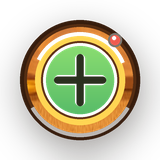
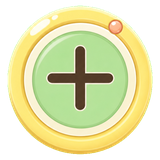
[FE] fix: 커뮤니티 테마 변경

diff --git a/frontend/src/features/community-canvas/components/CommunityComposerModal.tsx b/frontend/src/features/community-canvas/components/CommunityComposerModal.tsx
@@ -55,6 +55,7 @@ const TOOL_ACTIONS: Array<{
 ]
 
 const GALLERY_HIDDEN_TOOL_ACTIONS: ToolActionKey[] = []
+const COMPOSER_BOARD_SURFACE_CLASS = 'h-[540px] w-[720px] max-h-full max-w-full'
 
 function getContainedImageFrame({
   imageWidth,
@@ -105,7 +106,7 @@ export function CommunityComposerModal({ composer }: CommunityComposerModalProps
       role="dialog"
       aria-modal="true"
       aria-labelledby="community-composer-title"
-      className="fixed inset-0 z-[var(--z-overlay)] grid place-items-center bg-[#1f160d]/58 p-4 backdrop-blur-[2px]"
+      className="fixed inset-0 z-[var(--z-overlay)] grid place-items-center bg-[#19172a]/50 p-4 backdrop-blur-[2px]"
     >
       <section
         className="relative aspect-[1600/980] overflow-hidden bg-contain bg-center bg-no-repeat"
@@ -126,20 +127,20 @@ export function CommunityComposerModal({ composer }: CommunityComposerModalProps
             type="button"
             aria-label="작성 닫기"
             onClick={composer.closeComposer}
-            className="grid size-11 place-items-center rounded-full border border-[#e0b46f] bg-[#fff6df] text-fg-secondary shadow-[0_7px_16px_rgb(84_45_18_/_18%)] transition hover:-translate-y-0.5 hover:bg-white"
+            className="grid size-11 place-items-center rounded-full border border-[#ffd66b] bg-[#fff8e1] text-fg-secondary shadow-[0_7px_16px_rgb(71_68_112_/_16%)] transition hover:-translate-y-0.5 hover:bg-white"
           >
             <X className="size-5" />
           </button>
         </header>
 
-        <div className="absolute left-[4.75%] top-[21%] h-[7.15%] w-[16.875%]">
+        <div className="absolute left-[4.75%] top-[21.55%] h-[4.65%] w-[16.875%]">
           <SourceTabs
             sourceType={sourceType}
             onSelectSourceType={composer.selectSourceType}
           />
         </div>
 
-        <div className="absolute bottom-[8.6%] left-[4.75%] right-[4.75%] top-[31.3%] grid min-h-0 gap-[1.5%] overflow-hidden xl:grid-cols-[minmax(0,750fr)_320fr_330fr]">
+        <div className="absolute bottom-[8.6%] left-[4.75%] right-[4.75%] top-[29%] grid min-h-0 gap-[1.5%] overflow-hidden xl:grid-cols-[minmax(0,750fr)_320fr_330fr]">
             {sourceType === 'DIRECT' ? (
               <>
                 <div className="flex h-full min-w-0 items-center justify-center overflow-visible">
@@ -187,10 +188,13 @@ export function CommunityComposerModal({ composer }: CommunityComposerModalProps
               <>
                 <div className="flex h-full min-w-0 items-center justify-center overflow-visible">
                   {!selectedGalleryCanvasImageUrl && composer.handoffDraft ? (
-                    <CommunityHandoffSourcePanel draft={composer.handoffDraft} />
+                    <CommunityHandoffSourcePanel
+                      draft={composer.handoffDraft}
+                      className={COMPOSER_BOARD_SURFACE_CLASS}
+                    />
                   ) : !selectedGalleryCanvasImageUrl ? (
                     <CommunityGalleryPicker
-                      className="h-full w-full max-h-full"
+                      className={COMPOSER_BOARD_SURFACE_CLASS}
                       items={composer.galleryItems}
                       status={composer.galleryStatus}
                       error={composer.galleryError}
@@ -223,35 +227,28 @@ export function CommunityComposerModal({ composer }: CommunityComposerModalProps
                   className={cn(
                     'grid min-h-0 self-center auto-rows-max content-start gap-3 overflow-y-auto rounded-[0.55rem] bg-surface-default p-3 shadow-[0_10px_20px_rgb(78_44_20_/_12%)] [height:min(100%,33.75rem)]',
                     isPosting && 'pointer-events-none opacity-60',
-                    !selectedGalleryCanvasImageUrl && 'h-full place-items-center',
                   )}
                 >
-                  {selectedGalleryCanvasImageUrl ? (
-                    <>
-                      <DrawingToolStrip
-                        hiddenToolKeys={GALLERY_HIDDEN_TOOL_ACTIONS}
-                        selectedToolKey={drawingBoard.selectedToolKey}
-                        canUndoDrawing={drawingBoard.canUndoDrawing}
-                        canRedoDrawing={drawingBoard.canRedoDrawing}
-                        onSelectTool={drawingBoard.setSelectedToolKey}
-                        onUndoDrawing={drawingBoard.undoDrawing}
-                        onRedoDrawing={drawingBoard.redoDrawing}
-                        onClearDrawing={drawingBoard.clearDrawing}
-                      />
+                  <DrawingToolStrip
+                    hiddenToolKeys={GALLERY_HIDDEN_TOOL_ACTIONS}
+                    selectedToolKey={drawingBoard.selectedToolKey}
+                    canUndoDrawing={drawingBoard.canUndoDrawing}
+                    canRedoDrawing={drawingBoard.canRedoDrawing}
+                    onSelectTool={drawingBoard.setSelectedToolKey}
+                    onUndoDrawing={drawingBoard.undoDrawing}
+                    onRedoDrawing={drawingBoard.redoDrawing}
+                    onClearDrawing={drawingBoard.clearDrawing}
+                  />
 
-                      <DrawingBrushPanel
-                        colors={DRAWING_COLORS}
-                        selectedColor={drawingBoard.selectedColor}
-                        selectedOpacity={drawingBoard.selectedOpacity}
-                        strokeWidth={drawingBoard.strokeWidth}
-                        onSelectColor={drawingBoard.setSelectedColor}
-                        onOpacityChange={drawingBoard.setSelectedOpacity}
-                        onStrokeWidthChange={drawingBoard.setStrokeWidth}
-                      />
-                    </>
-                  ) : (
-                    <ImagePlus className="size-9 text-fg-secondary" />
-                  )}
+                  <DrawingBrushPanel
+                    colors={DRAWING_COLORS}
+                    selectedColor={drawingBoard.selectedColor}
+                    selectedOpacity={drawingBoard.selectedOpacity}
+                    strokeWidth={drawingBoard.strokeWidth}
+                    onSelectColor={drawingBoard.setSelectedColor}
+                    onOpacityChange={drawingBoard.setSelectedOpacity}
+                    onStrokeWidthChange={drawingBoard.setStrokeWidth}
+                  />
                 </div>
               </>
             )}
@@ -276,7 +273,7 @@ export function CommunityComposerModal({ composer }: CommunityComposerModalProps
               type="button"
               disabled={isPosting}
               onClick={handlePreparePlacement}
-              className="body-b mt-auto inline-flex h-12 w-full items-center justify-center gap-2 rounded-[0.45rem] bg-primary-1 text-fg-inverse transition hover:-translate-y-0.5 disabled:cursor-not-allowed disabled:opacity-60"
+              className="body-b mt-auto inline-flex h-12 w-full items-center justify-center gap-2 rounded-[0.45rem] bg-primary-1 text-fg-primary transition hover:-translate-y-0.5 disabled:cursor-not-allowed disabled:opacity-60"
             >
               {sourceType === 'DIRECT' ? <Send className="size-5" /> : <ImagePlus className="size-5" />}
               {isPosting ? '메모지 준비 중' : '메모지 들기'}
@@ -290,8 +287,10 @@ export function CommunityComposerModal({ composer }: CommunityComposerModalProps
 
 function CommunityHandoffSourcePanel({
   draft,
+  className,
 }: {
   draft: NonNullable<ReturnType<typeof useCommunityComposer>['handoffDraft']>
+  className?: string
 }) {
   const previewUrl = draft.thumbnailUrl || draft.imageUrl
   const sourceLabel =
@@ -302,7 +301,7 @@ function CommunityHandoffSourcePanel({
         : '폰 갤러리'
 
   return (
-    <section className="rounded-[0.5rem] border border-border-default bg-surface-subtle p-4">
+    <section className={cn('rounded-[0.5rem] border border-border-default bg-surface-subtle p-4', className)}>
       <p className="caption-b text-primary-2">{sourceLabel}</p>
       <h3 className="body-b mt-1 truncate text-fg-primary">{draft.title}</h3>
       <div className="relative mt-4 aspect-[4/3] overflow-hidden rounded-[0.45rem] border border-border-default bg-surface-default">
@@ -385,7 +384,7 @@ function SourceTabs({
   onSelectSourceType: (sourceType: MemoSourceType) => void
 }) {
   return (
-    <div className="grid h-full w-full grid-cols-2 rounded-[0.45rem] border border-border-default bg-surface-subtle p-1">
+    <div className="grid h-full w-full grid-cols-2 rounded-[0.45rem] border border-border-default bg-surface-subtle px-1 py-0.5">
       {SOURCE_TABS.map((tab) => (
         <button
           key={tab.key}

diff --git a/frontend/src/features/community-canvas/components/CommunityWall.tsx b/frontend/src/features/community-canvas/components/CommunityWall.tsx
@@ -36,14 +36,13 @@ const WALL_HEIGHT = 941
 const MEMO_WIDTH = 160
 const MEMO_HEIGHT = 160
 const MEMO_VISUAL_SAFE_PADDING = 24
-const WALL_BACKGROUND_IMAGE = '/images/community-canvas/wall-bg.png'
-const WALL_FOREGROUND_IMAGE = '/images/community-canvas/wall-fg.png'
+const WALL_BACKGROUND_IMAGE = '/images/community-canvas/wall-bg-studio.png'
 const BOUNDARY_EPSILON = 0.5
 const ATTACHABLE_SURFACE_BOUNDS = {
-  left: -630,
-  top: -365,
+  left: -590,
+  top: -550,
   right: 630,
-  bottom: 292,
+  bottom: 550,
 }
 const MEMO_PLACEMENT_ANIMATION_DURATION_MS = 720
 
@@ -798,15 +797,6 @@ export function CommunityWall({
           </>
         )}
 
-        <Image
-          src={WALL_FOREGROUND_IMAGE}
-          alt=""
-          fill
-          sizes={`${WALL_WIDTH}px`}
-          aria-hidden="true"
-          className="pointer-events-none z-[9000] select-none object-cover"
-        />
-
         {memoStatus === 'loading' && !isWallManipulating && (
           <div className="absolute inset-0 z-[11000] grid place-items-center bg-white/45 backdrop-blur-[1px]">
             <p className="body-b rounded-[0.45rem] bg-white px-4 py-3 text-fg-primary shadow-sm">
@@ -834,7 +824,7 @@ export function CommunityWall({
                 event.stopPropagation()
                 onRetry()
               }}
-              className="body-b mt-4 h-10 rounded-[0.45rem] bg-primary-1 px-4 text-fg-inverse"
+              className="body-b mt-4 h-10 rounded-[0.45rem] bg-primary-1 px-4 text-fg-primary"
             >
               다시 불러오기
             </button>
@@ -861,7 +851,7 @@ function PendingCancelButton({
         onCancelPendingMemo()
       }}
       disabled={isAttachingMemo}
-      className="absolute right-5 top-5 z-[10001] grid size-10 place-items-center rounded-full bg-white text-fg-secondary shadow-[0_10px_22px_rgb(61_43_22_/_16%)] disabled:cursor-not-allowed disabled:opacity-60"
+      className="absolute right-5 top-5 z-[10001] grid size-10 place-items-center rounded-full bg-white text-fg-secondary shadow-[0_10px_22px_rgb(71_68_112_/_16%)] disabled:cursor-not-allowed disabled:opacity-60"
     >
       <X className="size-5" />
     </button>
@@ -1003,7 +993,7 @@ function MemoSurface({
         onMouseDown={onBeginRotate}
         onClick={(event) => event.stopPropagation()}
         disabled={disabled}
-        className="pointer-events-auto absolute left-1/2 top-0 grid size-8 -translate-x-1/2 -translate-y-1/2 place-items-center rounded-full border border-border-default bg-white text-fg-secondary shadow-[0_8px_16px_rgb(61_43_22_/_18%)] disabled:cursor-not-allowed disabled:opacity-60"
+        className="pointer-events-auto absolute left-1/2 top-0 grid size-8 -translate-x-1/2 -translate-y-1/2 place-items-center rounded-full border border-border-default bg-white text-fg-secondary shadow-[0_8px_16px_rgb(71_68_112_/_18%)] disabled:cursor-not-allowed disabled:opacity-60"
       >
         <RotateCw className="size-4" />
       </button>

diff --git a/frontend/src/features/community-canvas/CommunityCanvasPage.tsx b/frontend/src/features/community-canvas/CommunityCanvasPage.tsx
@@ -19,6 +19,18 @@ const memoButtonStyle = {
   backgroundImage: 'url("/images/community-canvas/ui/button-add-token.png")',
 } satisfies CSSProperties
 
+type CommunityCanvasThemeStyle = CSSProperties & Record<`--${string}`, string>
+
+const communityCanvasThemeStyle: CommunityCanvasThemeStyle = {
+  '--color-primary-1': '#FFB72C',
+  '--color-primary-2': '#E88900',
+  '--color-primary-5': '#FFF0B8',
+  '--color-fg-primary': '#2D2638',
+  '--color-fg-secondary': '#6F6681',
+  '--color-fg-disabled': '#B4ACBF',
+  '--color-border-default': '#E7DAB8',
+}
+
 export function CommunityCanvasPage() {
   const [isReportOpen, setReportOpen] = useState(false)
   const communityCanvas = useCommunityCanvas()
@@ -59,7 +71,10 @@ export function CommunityCanvasPage() {
   }
 
   return (
-    <main className="relative min-h-screen overflow-hidden bg-surface-default text-fg-primary">
+    <main
+      className="relative min-h-screen overflow-hidden bg-surface-default text-fg-primary"
+      style={communityCanvasThemeStyle}
+    >
       <WorldHomeLink />
       <header className="pointer-events-none fixed inset-x-4 top-4 z-[12000] flex justify-end">
         <div className="pointer-events-auto flex items-center gap-2">
@@ -68,14 +83,14 @@ export function CommunityCanvasPage() {
             aria-label="새로고침"
             onClick={() => void communityCanvas.loadCommunityMemos()}
             style={refreshButtonStyle}
-            className="size-20 rounded-full bg-contain bg-center bg-no-repeat transition duration-150 hover:-translate-y-0.5 hover:brightness-110 focus-visible:outline-none focus-visible:ring-4 focus-visible:ring-primary-5 active:translate-y-0 active:brightness-95"
+            className="size-20 rounded-full bg-contain bg-center bg-no-repeat drop-shadow-[0_8px_10px_rgb(61_77_70_/_22%)] transition duration-150 hover:-translate-y-0.5 hover:brightness-110 focus-visible:outline-none focus-visible:ring-4 focus-visible:ring-primary-5 active:translate-y-0 active:brightness-95"
           />
           <button
             type="button"
             aria-label="새 메모 붙이기"
             onClick={composer.openComposer}
             style={memoButtonStyle}
-            className="size-20 rounded-full bg-contain bg-center bg-no-repeat transition duration-150 hover:-translate-y-0.5 hover:brightness-110 focus-visible:outline-none focus-visible:ring-4 focus-visible:ring-primary-5 active:translate-y-0 active:brightness-95"
+            className="size-20 rounded-full bg-contain bg-center bg-no-repeat drop-shadow-[0_8px_10px_rgb(61_77_70_/_22%)] transition duration-150 hover:-translate-y-0.5 hover:brightness-110 focus-visible:outline-none focus-visible:ring-4 focus-visible:ring-primary-5 active:translate-y-0 active:brightness-95"
           />
         </div>
       </header>

diff --git a/frontend/src/features/community-canvas/components/CommunityMemoDetailModal.tsx b/frontend/src/features/community-canvas/components/CommunityMemoDetailModal.tsx
@@ -44,7 +44,7 @@ export function CommunityMemoDetailModal({
       role="dialog"
       aria-modal="true"
       aria-labelledby="community-memo-detail-title"
-      className="fixed inset-0 z-[var(--z-overlay)] grid place-items-center bg-[#1f160d]/58 p-4 backdrop-blur-[2px]"
+      className="fixed inset-0 z-[var(--z-overlay)] grid place-items-center bg-[#19172a]/50 p-4 backdrop-blur-[2px]"
     >
       <section
         className="relative aspect-[1500/1040] w-full max-w-6xl bg-contain bg-center bg-no-repeat"
@@ -57,12 +57,12 @@ export function CommunityMemoDetailModal({
           type="button"
           aria-label="메모 상세 닫기"
           onClick={onClose}
-          className="absolute right-[5.3%] top-[5.3%] z-10 grid size-11 place-items-center rounded-full border border-[#e0b46f] bg-[#fff6df] text-fg-secondary shadow-[0_7px_16px_rgb(84_45_18_/_18%)] transition hover:-translate-y-0.5 hover:bg-white"
+          className="absolute right-[5.3%] top-[5.3%] z-10 grid size-11 place-items-center rounded-full border border-[#ffd66b] bg-[#fff8e1] text-fg-secondary shadow-[0_7px_16px_rgb(71_68_112_/_16%)] transition hover:-translate-y-0.5 hover:bg-white"
         >
           <X className="size-5" />
         </button>
 
-        <div className="absolute left-[6.4%] right-[6.4%] top-[9.2%] bottom-[25.4%] overflow-hidden rounded-[1rem] border border-[#f0dcae]/80 bg-white shadow-[inset_0_1px_0_rgb(255_255_255_/_88%),0_8px_22px_rgb(80_45_18_/_10%)]">
+        <div className="absolute left-[6.4%] right-[6.4%] top-[9.2%] bottom-[25.4%] overflow-hidden rounded-[1rem] border border-[#ffdf82]/80 bg-white shadow-[inset_0_1px_0_rgb(255_255_255_/_88%),0_8px_22px_rgb(71_68_112_/_10%)]">
           {detailStatus === 'loading' && (
             <div className="absolute inset-0 grid place-items-center">
               <p className="body-b text-fg-secondary">메모를 여는 중</p>

diff --git a/frontend/src/features/community-canvas/components/CommunityReportModal.tsx b/frontend/src/features/community-canvas/components/CommunityReportModal.tsx
@@ -39,7 +39,7 @@ export function CommunityReportModal({
       role="dialog"
       aria-modal="true"
       aria-labelledby="community-report-title"
-      className="fixed inset-0 z-[calc(var(--z-overlay)+10)] grid place-items-center bg-[#1f160d]/58 p-4 backdrop-blur-[2px]"
+      className="fixed inset-0 z-[calc(var(--z-overlay)+10)] grid place-items-center bg-[#19172a]/50 p-4 backdrop-blur-[2px]"
     >
       <section
         className="w-full max-w-md bg-contain bg-center bg-no-repeat px-10 pb-10 pt-9"
@@ -56,7 +56,7 @@ export function CommunityReportModal({
             type="button"
             aria-label="신고 닫기"
             onClick={onClose}
-            className="grid size-9 place-items-center rounded-full border border-[#e0b46f] bg-[#fff6df] text-fg-secondary shadow-[0_6px_14px_rgb(84_45_18_/_16%)]"
+            className="grid size-9 place-items-center rounded-full border border-[#ffd66b] bg-[#fff8e1] text-fg-secondary shadow-[0_6px_14px_rgb(71_68_112_/_16%)]"
           >
             <X className="size-5" />
           </button>
@@ -89,7 +89,7 @@ export function CommunityReportModal({
           value={reasonDetail}
           onChange={(event) => setReasonDetail(event.target.value)}
           maxLength={300}
-          className="body-r mt-2 min-h-24 w-full resize-none rounded-[0.45rem] border border-[#d9994a]/70 bg-[#fff8e8]/88 p-3 text-fg-primary outline-none focus:border-primary-1"
+          className="body-r mt-2 min-h-24 w-full resize-none rounded-[0.45rem] border border-[#ffcf58]/70 bg-[#fff8e8]/88 p-3 text-fg-primary outline-none focus:border-primary-1"
         />
 
         <button

diff --git a/frontend/src/features/community-canvas/components/CommunityGalleryPicker.tsx b/frontend/src/features/community-canvas/components/CommunityGalleryPicker.tsx
@@ -30,7 +30,7 @@ export function CommunityGalleryPicker({
         <button
           type="button"
           onClick={onLoad}
-          className="body-b inline-flex h-11 items-center gap-2 rounded-[0.45rem] bg-primary-1 px-5 text-fg-inverse transition hover:-translate-y-0.5"
+          className="body-b inline-flex h-11 items-center gap-2 rounded-[0.45rem] bg-primary-1 px-5 text-fg-primary transition hover:-translate-y-0.5"
         >
           <ImageIcon className="size-4" />
           갤러리 불러오기
@@ -55,7 +55,7 @@ export function CommunityGalleryPicker({
           <button
             type="button"
             onClick={onLoad}
-            className="body-b mt-4 inline-flex h-11 items-center gap-2 rounded-[0.45rem] bg-primary-1 px-5 text-fg-inverse"
+            className="body-b mt-4 inline-flex h-11 items-center gap-2 rounded-[0.45rem] bg-primary-1 px-5 text-fg-primary"
           >
             <RefreshCw className="size-4" />
             다시 시도
@@ -108,7 +108,7 @@ export function CommunityGalleryPicker({
                   </span>
                 )}
                 {isSelected && (
-                  <span className="absolute right-2 top-2 grid size-7 place-items-center rounded-full bg-primary-1 text-fg-inverse shadow-sm">
+                  <span className="absolute right-2 top-2 grid size-7 place-items-center rounded-full bg-primary-1 text-fg-primary shadow-sm">
                     <Check className="size-4" />
                   </span>
                 )}
